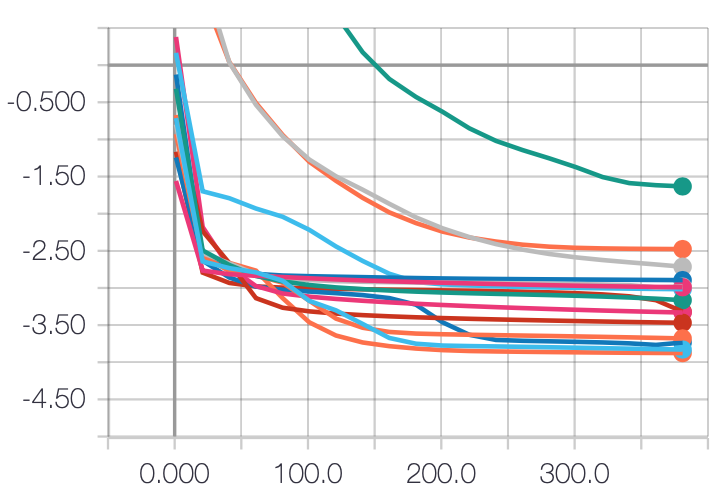
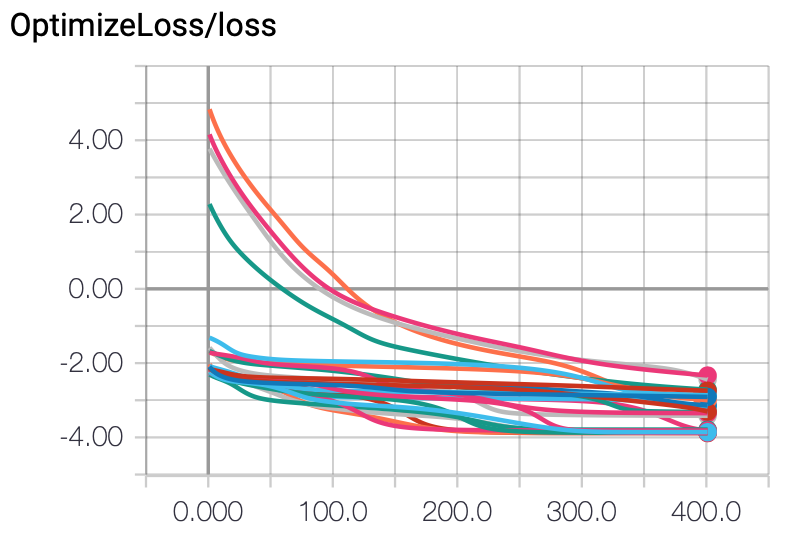
YS parameters - fixed code + report.

diff --git a/Experiments/Yellow_submarine/2019_01_22_right_parameters/src/yellow_submarine/maxcut_solver_tf.py b/Experiments/Yellow_submarine/2019_01_22_right_parameters/src/yellow_submarine/maxcut_solver_tf.py
@@ -51,15 +51,21 @@ class MaxCutSolver():
                     break
 
         self.final_params = final_params
-        all_results = []
         circuit_output = self.get_circuit_output()
         cost_tensor = self.loss_function(circuit_output)
         init = tf.global_variables_initializer()
+        
         with tf.Session() as sess:
             sess.run(init)
+            for variable in tf.all_variables():
+                variable_name = variable.name.split(':')[0]
+                if variable_name in final_params.keys():
+                    value = final_params[variable_name]
+                    sess.run(variable.assign(value))
             circuit_output = sess.run(circuit_output)
             cost_value = sess.run(cost_tensor)
-
+            a_variable = sess.run(tf.all_variables()[0])
+        
         if verbose:
             print("Total cost:", cost_value)
         return cost_value, circuit_output
@@ -129,17 +135,10 @@ class MaxCutSolver():
 
         return circuit_output
 
-    def loss_function(self, circuit_output, use_reduced_probs=True):
-        if use_reduced_probs:
-            cost_array = self.cost_array[[slice(2)]*self.n_qumodes]
-            cost_tensor = tf.constant(cost_array, dtype=tf.float32, name='cost_tensor')
-            circuit_output = tf.slice(circuit_output, [0]*self.n_qumodes, [2]*self.n_qumodes)
-        else:
-            cost_tensor = tf.constant(self.cost_array, dtype=tf.float32, name='cost_tensor')
+    def loss_function(self, circuit_output):
+        cost_tensor = tf.constant(self.cost_array, dtype=tf.float32, name='cost_tensor')
         weighted_cost_tensor = tf.multiply(cost_tensor, circuit_output)
-        total_probability = tf.reduce_sum(circuit_output)
         result = tf.reduce_sum(weighted_cost_tensor)
-        result = tf.divide(result, total_probability)
         result = tf.multiply(result, tf.constant(-1.0))
         return result
 

diff --git a/Experiments/Yellow_submarine/2019_01_22_right_parameters/src/main.py b/Experiments/Yellow_submarine/2019_01_22_right_parameters/src/main.py
@@ -31,6 +31,18 @@ def run_single_test(learner_params, training_params, matrices, gates_structure):
     final_cost, all_probs = max_cut_solver.train_and_evaluate_circuit(verbose=False)
     return final_cost, all_probs
 
+def assess_cost_based_on_output(outputs, A):
+    cost = 0
+    for encoding in outputs:
+        cost += calculate_cost_for_encoding(A, encoding) 
+    return cost / len(outputs)
+
+def calculate_cost_for_encoding(A, encoding):
+    cost_value = 0
+    for i in range(len(encoding)):
+        for j in range(len(encoding)):
+            cost_value += 0.5 * A[i][j] * (encoding[i] - encoding[j])**2
+    return cost_value
 
 def main(run_id=0, learning_rate=0.1, regularization=1e-3):
     c = 3
@@ -54,13 +66,12 @@ def main(run_id=0, learning_rate=0.1, regularization=1e-3):
         'regularization_strength': regularization,
         'optimizer': 'SGD',
         'init_learning_rate': learning_rate,
-        'log_every': 20,
-        'plot_every': 20,
+        'log_every': 1,
         'print_log': False
         }
 
 
-    steps = 400
+    steps = 401
 
     training_params = {
         'steps': steps,
@@ -110,6 +121,9 @@ def main(run_id=0, learning_rate=0.1, regularization=1e-3):
     print("total prob:", total_prob)
     for el in output_counter.most_common()[:10]:
         print(el)
+    cost_from_output = assess_cost_based_on_output(circuit_outputs_clipped, A)
+    print("cost from output:", cost_from_output)
+
 
 if __name__ == '__main__':
     main(int(sys.argv[1]), float(sys.argv[2]), float(sys.argv[3]))

diff --git a/Experiments/Yellow_submarine/2019_01_22_right_parameters/report/report.md b/Experiments/Yellow_submarine/2019_01_22_right_parameters/report/report.md
@@ -23,9 +23,11 @@ This experiment can be divided in three phases. The number of runs was limited b
 
 The aim of this phase was to find in what regime we should look for the values of learning rate. We have tested the following values: [0.002, 0.01, 0.05, 0.25, 1.25, 6.25, 31.25] and performed 3 runs for each of them.
 
+This phase has been performed with a bug in the code. However, we have decided that the bug shouldn't affect the results of this phase much, so we have not repeated it. In the end, th goal is not to find the optimal values of learning rate, but such that work well enough.
+
 ### Phase 2 - Finding learning rate and regularization strength values
 
-The aim of this phase was to find the exact values for learning rate and regularization. We have checked the following values of learning rates: [0.05, 0.1, 0.15] and regularization: [1e-5, 1e-4, 1e-3, 1e-2, 1e-1]. We've performed 3 runs for each combination of values.
+The aim of this phase was to find the exact values for learning rate and regularization. We have checked the following values of learning rates: [0.05, 0.1, 0.15] and regularization: [1e-5, 1e-4, 1e-3, 1e-2, 1e-1]. We've performed 5 runs for each combination of values.
 
 ### Phase 3 - Double checking the results. 
 
@@ -42,7 +44,7 @@ The effect was similar, though somewhat less strong, for Sgate phases and even w
 
 ### Observation 2
 
-It seems the correlation between regularization strength and diminishing trace is rather weak. However, more repetitions are needed to draw conclusions with more certainty.
+Trace was well preserved in all the simulations.
 
 ### Observation 3
 
@@ -53,9 +55,9 @@ For 0.25 the curves are pretty ragged, so the best range for the learning rate s
 ### Observation 4
 
 From the learning rates examined in more details ([0.05, 0.1, 0.15]), 0.1 seems to give the best results.
-In case of 0.05 the convergence occurs around 200-th iteration, however the quality of results is significantly worse than for other values.
-In case of 0.1 the convergence usually occurs before 100-th iteration and the final results (after 400 steps) are usually good (most below cost of 3.5).
-In case of 0.15 the convergence is too quick and hence, the values of the cost function are high (most above 3.5)
+In case of 0.05 the convergence has sometimes not occured at all, hence the results are much worse.
+In case of 0.1 the convergence usually occurs before 200-th iteration and the final results (after 400 steps) are satisfactory - between -4 and -3.
+In case of 0.15 the convergence is slightly faster, the trace is slightly lower and the results are pretty much the same.
 
 Below are the plots of the loss function for those parameters (in order):
 
@@ -67,8 +69,12 @@ Below are the plots of the loss function for those parameters (in order):
 
 ### Observation 5
 
-Running the training for the chosen set of parameters (`lr=0.1` and `reg=1e-3`) several times gave satisfying results consistently.
+Lower values of regularization yielded faster convergence and better results.
+
+### Observation 6
+
+Running the training for the chosen set of parameters (`lr=0.1` and `reg=1e-4`) several times gave satisfying results consistently.
 
 ### Conclusion
 
-After analyzing the results of this experiment, we have decided to use the following parameters for further research: learning rate 0.1 and regularization strength 0.001.
+After analyzing the results of this experiment, we have decided to use the following parameters for further research: learning rate 0.1 and regularization strength 0.0001.
